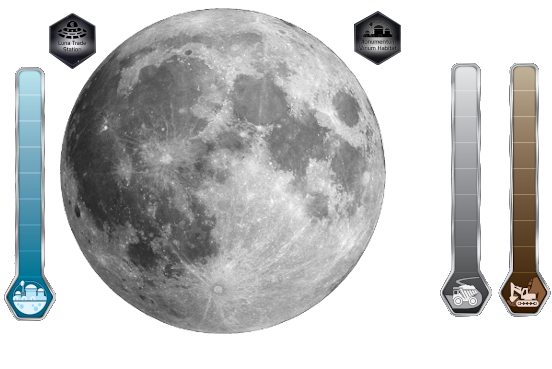
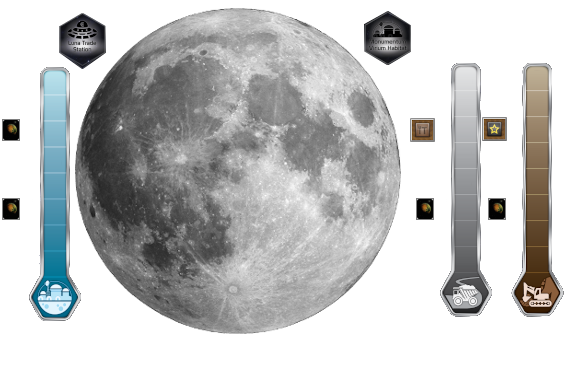
Add bonuses for reaching different spots on the moon tracks.
The visualization chagnes were the hardest part.

diff --git a/src/styles/moon.less b/src/styles/moon.less
@@ -1,5 +1,5 @@
 .moon-board {
-	width: 555px;
+	width: 568px;
 	height: 335px;
 	margin: 85px 0 0 0;
 	background: url(assets/moon/board.png) no-repeat;
@@ -7,7 +7,7 @@
 
 .global-numbers-colony {
 	position: absolute;
-	margin: 60px 0px 0px 1px;
+	margin: 60px 0px 0px 26px;
 }
 .global-numbers-logistics {
   position: absolute;
@@ -15,7 +15,7 @@
 }
 .global-numbers-mining {
   position: absolute;
-  margin: 60px 0px 0px 495px;
+  margin: 60px 0px 0px 508px;
 }
 
 .board-space-tile--colony {
@@ -46,51 +46,51 @@
 // 	background-image: url(./assets/moon/lunar-mine-urbanization.png);
 // }
 
-.moon-space-m01 { margin: 15px 0 0 49px; }
+.moon-space-m01 { margin: 15px 0 0 59px; }
 // Row 1
-.moon-space-m02 { margin: -57px 0 0 34px; }
-.moon-space-m03 { margin: -57px 0 0 83px; }
-.moon-space-m04 { margin: -57px 0 0 132px; }
-.moon-space-m05 { margin: -57px 0 0 181px; }
+.moon-space-m02 { margin: -57px 0 0 44px; }
+.moon-space-m03 { margin: -57px 0 0 93px; }
+.moon-space-m04 { margin: -57px 0 0 142px; }
+.moon-space-m05 { margin: -57px 0 0 191px; }
 // Row 2
-.moon-space-m06 { margin: -18px 0 0 11px; }
-.moon-space-m07 { margin: -18px 0 0 60px; }
-.moon-space-m08 { margin: -18px 0 0 109px; }
-.moon-space-m09 { margin: -18px 0 0 158px; }
-.moon-space-m10 { margin: -18px 0 0 207px; }
+.moon-space-m06 { margin: -18px 0 0 21px; }
+.moon-space-m07 { margin: -18px 0 0 70px; }
+.moon-space-m08 { margin: -18px 0 0 119px; }
+.moon-space-m09 { margin: -18px 0 0 168px; }
+.moon-space-m10 { margin: -18px 0 0 217px; }
 // Row 3
-.moon-space-m11 { margin: 21px 0 0 -15px; }
-.moon-space-m12 { margin: 21px 0 0 34px; }
-.moon-space-m13 { margin: 21px 0 0 83px; }
-.moon-space-m14 { margin: 21px 0 0 132px; }
-.moon-space-m15 { margin: 21px 0 0 181px; }
-.moon-space-m16 { margin: 21px 0 0 230px; }
+.moon-space-m11 { margin: 21px 0 0 -5px; }
+.moon-space-m12 { margin: 21px 0 0 44px; }
+.moon-space-m13 { margin: 21px 0 0 93px; }
+.moon-space-m14 { margin: 21px 0 0 142px; }
+.moon-space-m15 { margin: 21px 0 0 191px; }
+.moon-space-m16 { margin: 21px 0 0 240px; }
 // Row 4
-.moon-space-m17 { margin: 60px 0 0 11px; }
-.moon-space-m18 { margin: 60px 0 0 60px; }
-.moon-space-m19 { margin: 60px 0 0 109px; }
-.moon-space-m20 { margin: 60px 0 0 158px; }
-.moon-space-m21 { margin: 60px 0 0 207px; }
+.moon-space-m17 { margin: 60px 0 0 21px; }
+.moon-space-m18 { margin: 60px 0 0 70px; }
+.moon-space-m19 { margin: 60px 0 0 119px; }
+.moon-space-m20 { margin: 60px 0 0 168px; }
+.moon-space-m21 { margin: 60px 0 0 217px; }
 // Row 5
-.moon-space-m22 { margin: 99px 0 0 -15px; }
-.moon-space-m23 { margin: 99px 0 0 34px; }
-.moon-space-m24 { margin: 99px 0 0 83px; }
-.moon-space-m25 { margin: 99px 0 0 132px; }
-.moon-space-m26 { margin: 99px 0 0 181px; }
-.moon-space-m27 { margin: 99px 0 0 230px; }
+.moon-space-m22 { margin: 99px 0 0 -5px; }
+.moon-space-m23 { margin: 99px 0 0 44px; }
+.moon-space-m24 { margin: 99px 0 0 93px; }
+.moon-space-m25 { margin: 99px 0 0 142px; }
+.moon-space-m26 { margin: 99px 0 0 191px; }
+.moon-space-m27 { margin: 99px 0 0 240px; }
 // Row 6
-.moon-space-m28 { margin: 138px 0 0 11px; }
-.moon-space-m29 { margin: 138px 0 0 60px; }
-.moon-space-m30 { margin: 138px 0 0 109px; }
-.moon-space-m31 { margin: 138px 0 0 158px; }
-.moon-space-m32 { margin: 138px 0 0 207px; }
+.moon-space-m28 { margin: 138px 0 0 21px; }
+.moon-space-m29 { margin: 138px 0 0 70px; }
+.moon-space-m30 { margin: 138px 0 0 119px; }
+.moon-space-m31 { margin: 138px 0 0 168px; }
+.moon-space-m32 { margin: 138px 0 0 217px; }
 // Row 7
-.moon-space-m33 { margin: 177px 0 0 34px; }
-.moon-space-m34 { margin: 177px 0 0 83px; }
-.moon-space-m35 { margin: 177px 0 0 132px; }
-.moon-space-m36 { margin: 177px 0 0 181px; }
+.moon-space-m33 { margin: 177px 0 0 44px; }
+.moon-space-m34 { margin: 177px 0 0 93px; }
+.moon-space-m35 { margin: 177px 0 0 142px; }
+.moon-space-m36 { margin: 177px 0 0 191px; }
 
-.moon-space-m37 { margin: 11px 0 0 353px; }
+.moon-space-m37 { margin: 11px 0 0 363px; }
 
 .moon-space-type-mine {
 	background: url(assets/moon/hex_brown.png);

diff --git a/tests/moon/MoonExpansion.spec.ts b/tests/moon/MoonExpansion.spec.ts
@@ -4,18 +4,19 @@ import {Game} from '../../src/Game';
 import {IMoonData} from '../../src/moon/IMoonData';
 import {MoonExpansion} from '../../src/moon/MoonExpansion';
 import {MoonSpaces} from '../../src/moon/MoonSpaces';
-import {Player} from '../../src/Player';
+import {Resources} from '../../src/Resources';
 import {SpaceName} from '../../src/SpaceName';
 import {TileType} from '../../src/TileType';
 import {setCustomGameOptions} from '../TestingUtils';
+import {TestPlayer} from '../TestPlayer';
 import {TestPlayers} from '../TestPlayers';
 
 const MOON_OPTIONS = setCustomGameOptions({moonExpansion: true});
 
 describe('MoonExpansion', () => {
   let game: Game;
-  let player: Player;
-  let player2: Player;
+  let player: TestPlayer;
+  let player2: TestPlayer;
   let moonData: IMoonData;
 
   beforeEach(() => {
@@ -81,5 +82,54 @@ describe('MoonExpansion', () => {
     // Remove the road, and the mine is worth nothing.
     moonData.moon.getSpace('m03').tile = undefined;
     expect(computeVps()).eql({colonies: 0, mines: 0, roads: 0});
+  });
+
+  it('Raise mining rate bonus 2-3', () => {
+    moonData.miningRate = 2;
+    player.cardsInHand = [];
+    MoonExpansion.raiseMiningRate(player, 1);
+    expect(player.cardsInHand).has.length(1);
+  });
+
+  it('Raise mining rate bonus 1-4', () => {
+    moonData.miningRate = 1;
+    player.cardsInHand = [];
+    MoonExpansion.raiseMiningRate(player, 3);
+    expect(player.cardsInHand).has.length(1);
+  });
+
+  it('Raise mining rate bonus 5-6', () => {
+    moonData.miningRate = 5;
+    player.setProductionForTest({titanium: 0});
+    MoonExpansion.raiseMiningRate(player, 1);
+    expect(player.getProduction(Resources.TITANIUM)).eq(1);
+  });
+
+  it('Raise logistic rate bonus 2-3', () => {
+    moonData.logisticRate = 2;
+    player.cardsInHand = [];
+    MoonExpansion.raiseLogisticRate(player, 1);
+    expect(player.cardsInHand).has.length(1);
+  });
+
+  it('Raise logistic rate bonus 5-6', () => {
+    moonData.logisticRate = 5;
+    player.setProductionForTest({steel: 0});
+    MoonExpansion.raiseLogisticRate(player, 1);
+    expect(player.getProduction(Resources.STEEL)).eq(1);
+  });
+
+  it('Raise colony rate bonus 2-3', () => {
+    moonData.colonyRate = 2;
+    player.cardsInHand = [];
+    MoonExpansion.raiseColonyRate(player, 1);
+    expect(player.cardsInHand).has.length(1);
+  });
+
+  it('Raise colony rate bonus 5-6', () => {
+    moonData.colonyRate = 5;
+    player.cardsInHand = [];
+    MoonExpansion.raiseColonyRate(player, 1);
+    expect(player.cardsInHand).has.length(1);
   });
 });

diff --git a/src/moon/MoonExpansion.ts b/src/moon/MoonExpansion.ts
@@ -111,14 +111,25 @@ export class MoonExpansion {
     });
   }
 
+  private static bonus(originalRate: number, increment: number, value: number, cb: () => void): void {
+    if (originalRate < value && originalRate + increment >= value) {
+      cb();
+    }
+  }
   public static raiseMiningRate(player: Player, count: number = 1) {
     MoonExpansion.ifMoon(player.game, (moonData) => {
       const available = MAXIMUM_MINING_RATE - moonData.miningRate;
       const increment = Math.min(count, available);
       if (increment > 0) {
-        moonData.miningRate += increment;
         player.game.log('${0} raised the mining rate ${1} step(s)', (b) => b.player(player).number(increment));
         player.increaseTerraformRatingSteps(increment);
+        this.bonus(moonData.miningRate, increment, 3, () => {
+          player.drawCard();
+        });
+        this.bonus(moonData.miningRate, increment, 6, () => {
+          player.addProduction(Resources.TITANIUM, 1, player.game);
+        });
+        moonData.miningRate += increment;
         this.activateLunaFirst(player, player.game, increment);
       }
     });
@@ -129,9 +140,15 @@ export class MoonExpansion {
       const available = MAXIMUM_COLONY_RATE - moonData.colonyRate;
       const increment = Math.min(count, available);
       if (increment > 0) {
-        moonData.colonyRate += increment;
         player.game.log('${0} raised the moon colony rate ${1} step(s)', (b) => b.player(player).number(increment));
         player.increaseTerraformRatingSteps(count);
+        this.bonus(moonData.colonyRate, increment, 3, () => {
+          player.drawCard();
+        });
+        this.bonus(moonData.colonyRate, increment, 6, () => {
+          player.drawCard();
+        });
+        moonData.colonyRate += increment;
         this.activateLunaFirst(player, player.game, count);
       }
     });
@@ -142,9 +159,15 @@ export class MoonExpansion {
       const available = MAXIMUM_LOGISTICS_RATE - moonData.logisticRate;
       const increment = Math.min(count, available);
       if (increment > 0) {
-        moonData.logisticRate += increment;
         player.game.log('${0} raised the logistic rate ${1} step(s)', (b) => b.player(player).number(increment));
         player.increaseTerraformRatingSteps(count);
+        this.bonus(moonData.logisticRate, increment, 3, () => {
+          player.drawCard();
+        });
+        this.bonus(moonData.logisticRate, increment, 6, () => {
+          player.addProduction(Resources.STEEL, 1, player.game);
+        });
+        moonData.logisticRate += increment;
         this.activateLunaFirst(player, player.game, increment);
       }
     });

diff --git a/src/components/moon/MoonBoard.ts b/src/components/moon/MoonBoard.ts
@@ -83,7 +83,7 @@ export const MoonBoard = Vue.component('moonboard', {
   template: `
     <div class="board-cont moon-board" id="moon_board">
       <svg id="moon_board_legend" height="550" width="630" class="board-legend">
-        <g id="mare_imbrium" transform="translate(240, 40)">
+        <g id="mare_imbrium" transform="translate(250, 40)">
           <text class="board-caption">
             <tspan dy="15">Mare</tspan>
             <tspan x="12" dy="12">Imbrium</tspan>
@@ -92,7 +92,7 @@ export const MoonBoard = Vue.component('moonboard', {
           <text x="30" y="107" class="board-caption board_caption--black">●</text>
         </g>
 
-        <g id="mare_sereitatis" transform="translate(480, 140)">
+        <g id="mare_sereitatis" transform="translate(485, 140)">
           <text class="board-caption">
               <tspan dy="15">Mare</tspan>
               <tspan x="4" dy="12">Serenitatis</tspan>
@@ -102,13 +102,13 @@ export const MoonBoard = Vue.component('moonboard', {
         </g>
 
 
-        <g id="mare_nubium" transform="translate(160, 325)">
+        <g id="mare_nubium" transform="translate(195, 350)">
           <text class="board-caption">
             <tspan dy="15">Mare</tspan>
             <tspan x="-2" dy="12">Nubium</tspan>
           </text>
-          <line x1="29" y1="14" x2="140" y2="-35" class="board-line"></line>
-          <text x="138" y="-33" class="board-caption board_caption--black">●</text>
+          <line x1="29" y1="14" x2="115" y2="-64" class="board-line"></line>
+          <text x="113" y="-62" class="board-caption board_caption--black">●</text>
         </g>
 
         <g id="mare_nectaris" transform="translate(450, 300)">
@@ -116,8 +116,8 @@ export const MoonBoard = Vue.component('moonboard', {
             <tspan dy="15">Mare</tspan>
             <tspan dy="12" x="48">Nectaris</tspan>
           </text>
-          <line x1="-49" y1="-12" x2="45" y2="15" class="board-line"></line>
-          <text x="-49" y="-9" class="board-caption board_caption--black">&#x25cf;</text>
+          <line x1="-39" y1="-12" x2="45" y2="15" class="board-line"></line>
+          <text x="-39" y="-9" class="board-caption board_caption--black">&#x25cf;</text>
         </g>
       </svg>
 